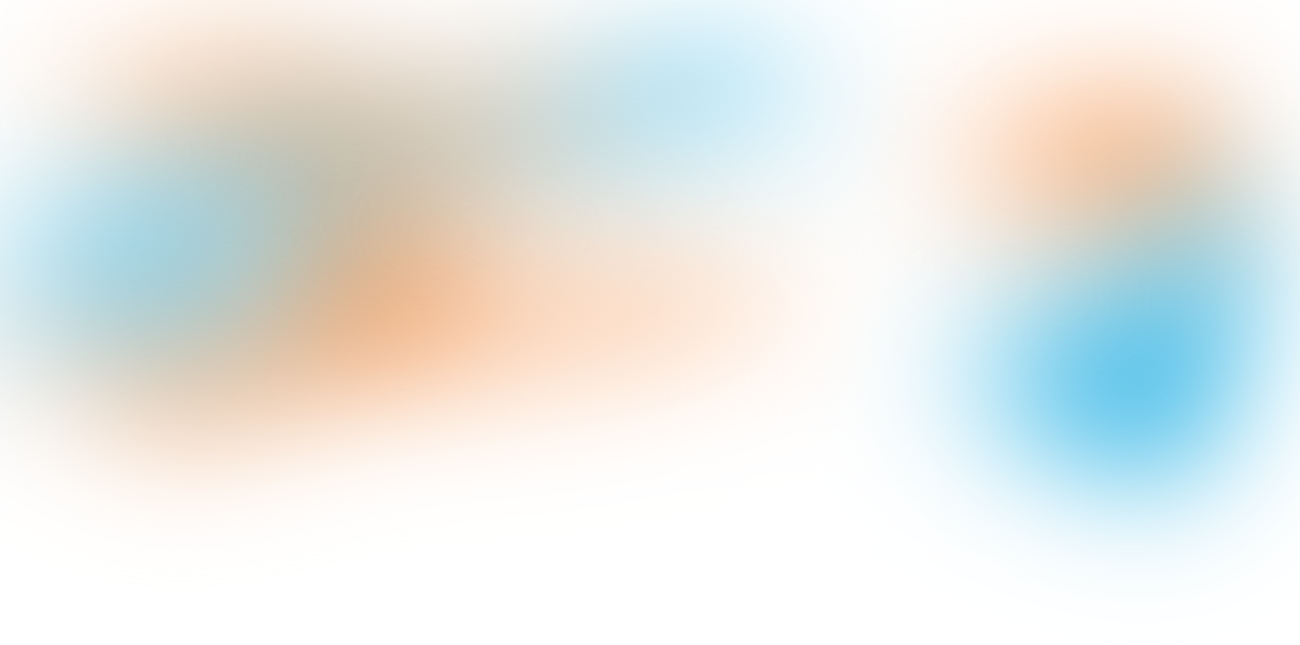
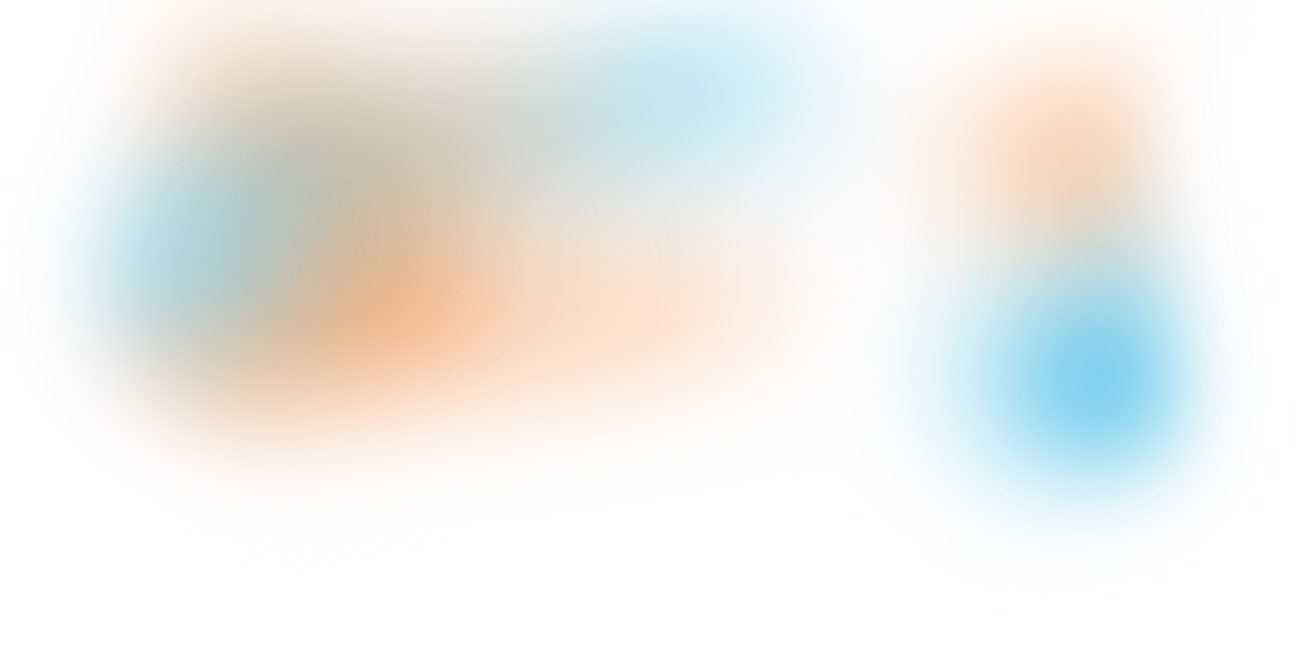
#Background improvement

Changed region(s): [[0.8308, 0.093, 1.0, 0.8372], [0.0, 0.2171, 0.1538, 0.7132], [0.0615, 0.124, 0.1231, 0.186]]

diff --git a/app/app/styles/main.scss b/app/app/styles/main.scss
@@ -91,7 +91,8 @@ $fontSize: rem-calc(18);
 
 body {
     background-image: inline-image("bg.png");
-    background-repeat: repeat-x;
+    background-repeat: no-repeat;
+    background-position: 50% top;
     background-attachment:fixed;
     .main-container {
         display: block;
